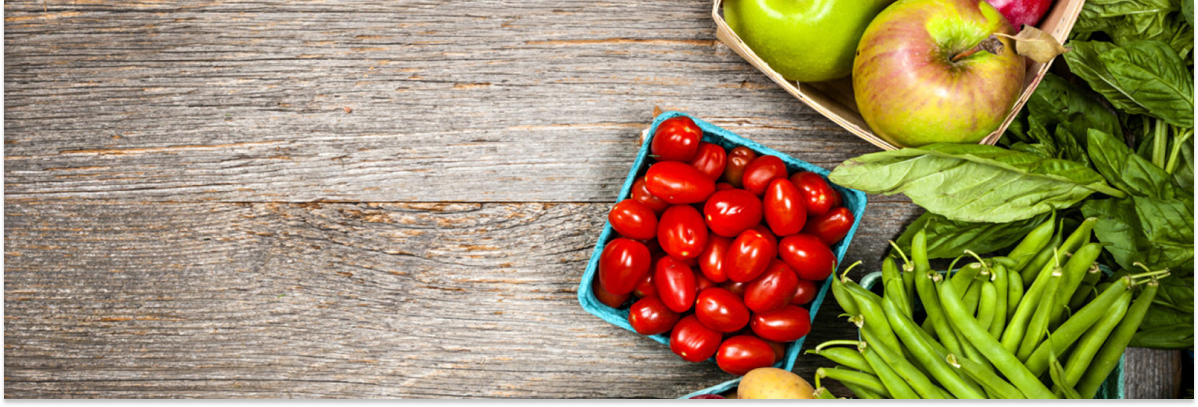
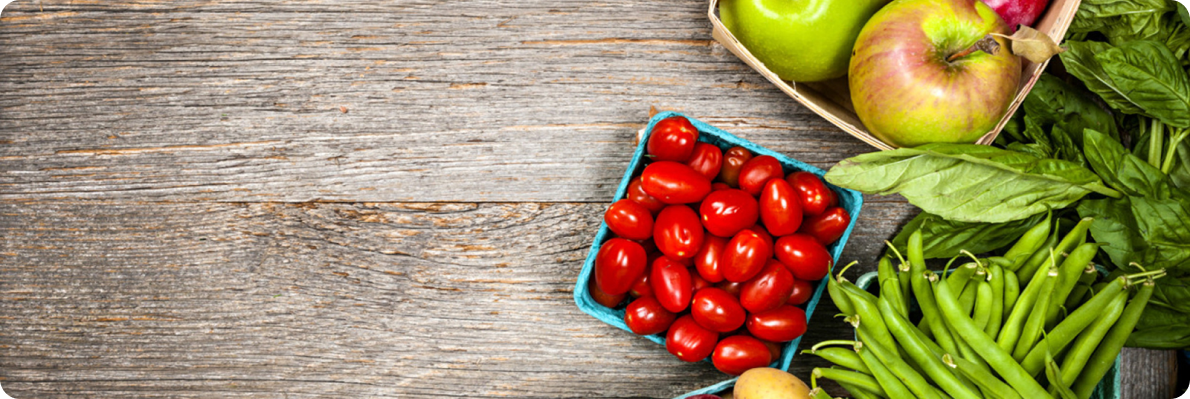
main photo is fixed

diff --git a/styles/slyle.css b/styles/slyle.css
@@ -170,18 +170,21 @@ body {
     background-image: url("../img/summer.png");
     background-repeat: no-repeat;
     background-size: cover;
+    min-height: 440px;
 }
 
 .slide-vitamins {
     background-image: url("../img/vitamins.png");
     background-repeat: no-repeat;
     background-size: cover;
+    min-height: 440px;
 }
 
 .slide-october {
-    background-image: url("../img/october");
+    background-image: url("../img/october.png");
     background-repeat: no-repeat;
     background-size: cover;
+    min-height: 440px;
 }
 
 .slide:before {
@@ -333,7 +336,7 @@ body {
     color: #fff;
 }
 
-.tag-poultry {
+.tag-chicken {
     background: #d68334;
     color: #fff;
 }
@@ -347,11 +350,11 @@ body {
     background: #fffdbf;
 }
 
-.tag-parents {
+.tag-parent {
     background: #f6fdc8;
 }
 
-.tag-weekend {
+.tag-special {
     background: #fef7fe;
 }
 
